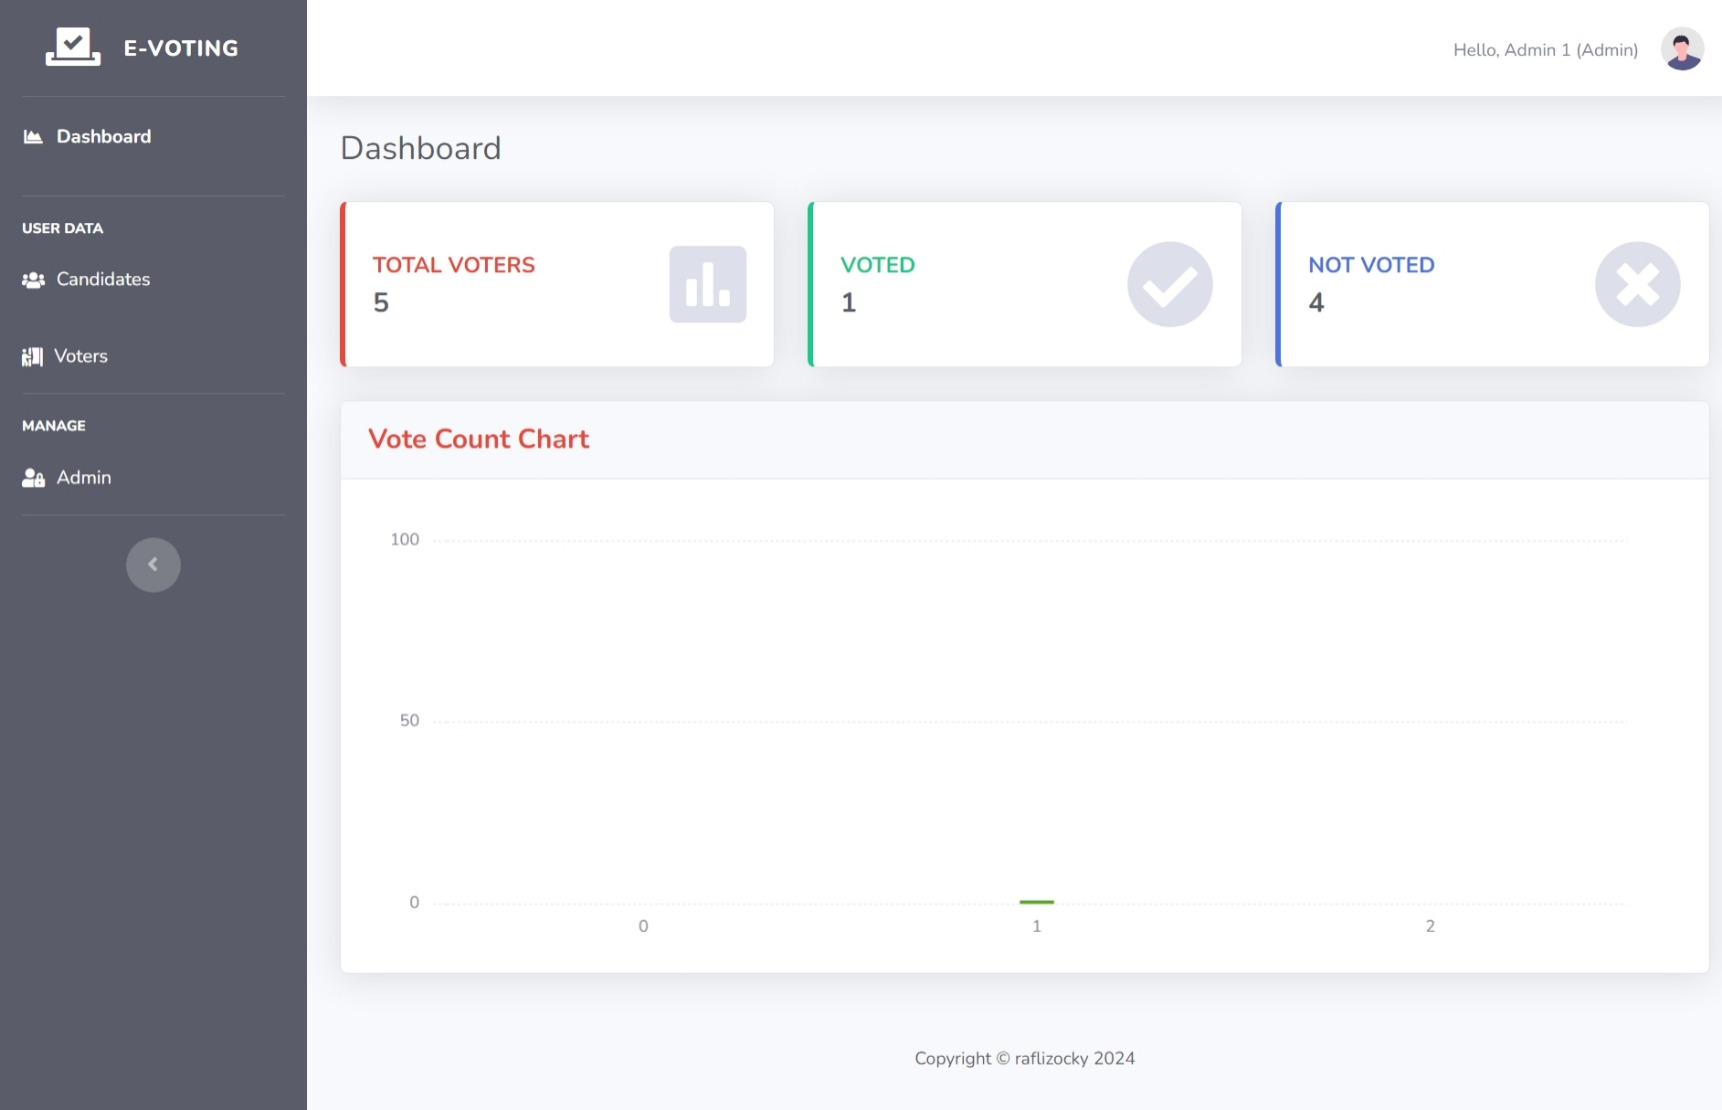
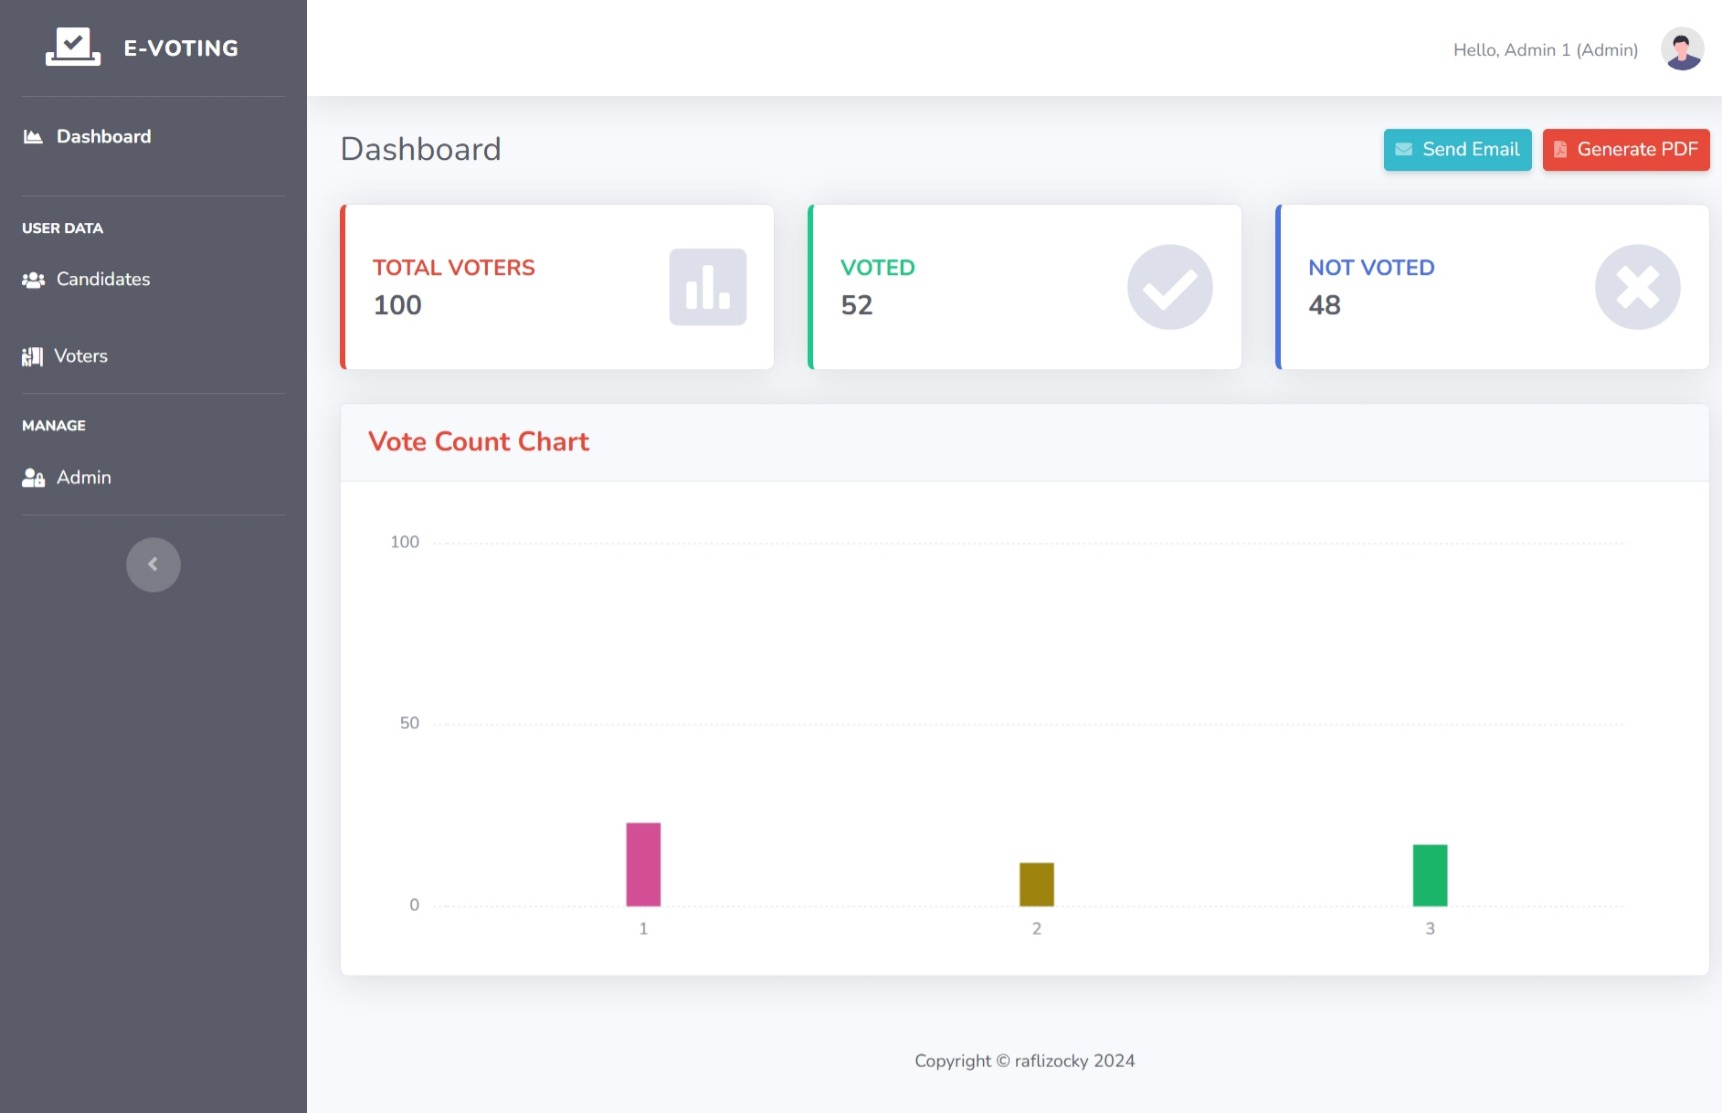
change: demo pictures

diff --git a/demo-img/Demo.md b/demo-img/Demo.md
@@ -4,7 +4,7 @@
 
 ## Admin Panel
 
-<img src="dashboard.jpeg" alt="Dashboard" width="100%"> <img src="candidates.jpeg" alt="Candidates List" width="100%"> <img src="voters.jpeg" alt="Voters List" width="100%"> <img src="admins.jpeg" alt="Admins List" width="100%">
+<img src="dashboard.jpeg" alt="Dashboard" width="100%"> <img src="dashboard-single-email.jpeg" alt="Dashboard Send Single Email" width="100%"> <img src="dashboard-all-email.jpeg" alt="Dashboard Send All Email" width="100%"> <img src="candidates.jpeg" alt="Candidates List" width="100%"> <img src="voters.jpeg" alt="Voters List" width="100%"> <img src="admins.jpeg" alt="Admins List" width="100%">
 
 ## Voter Panel
 
